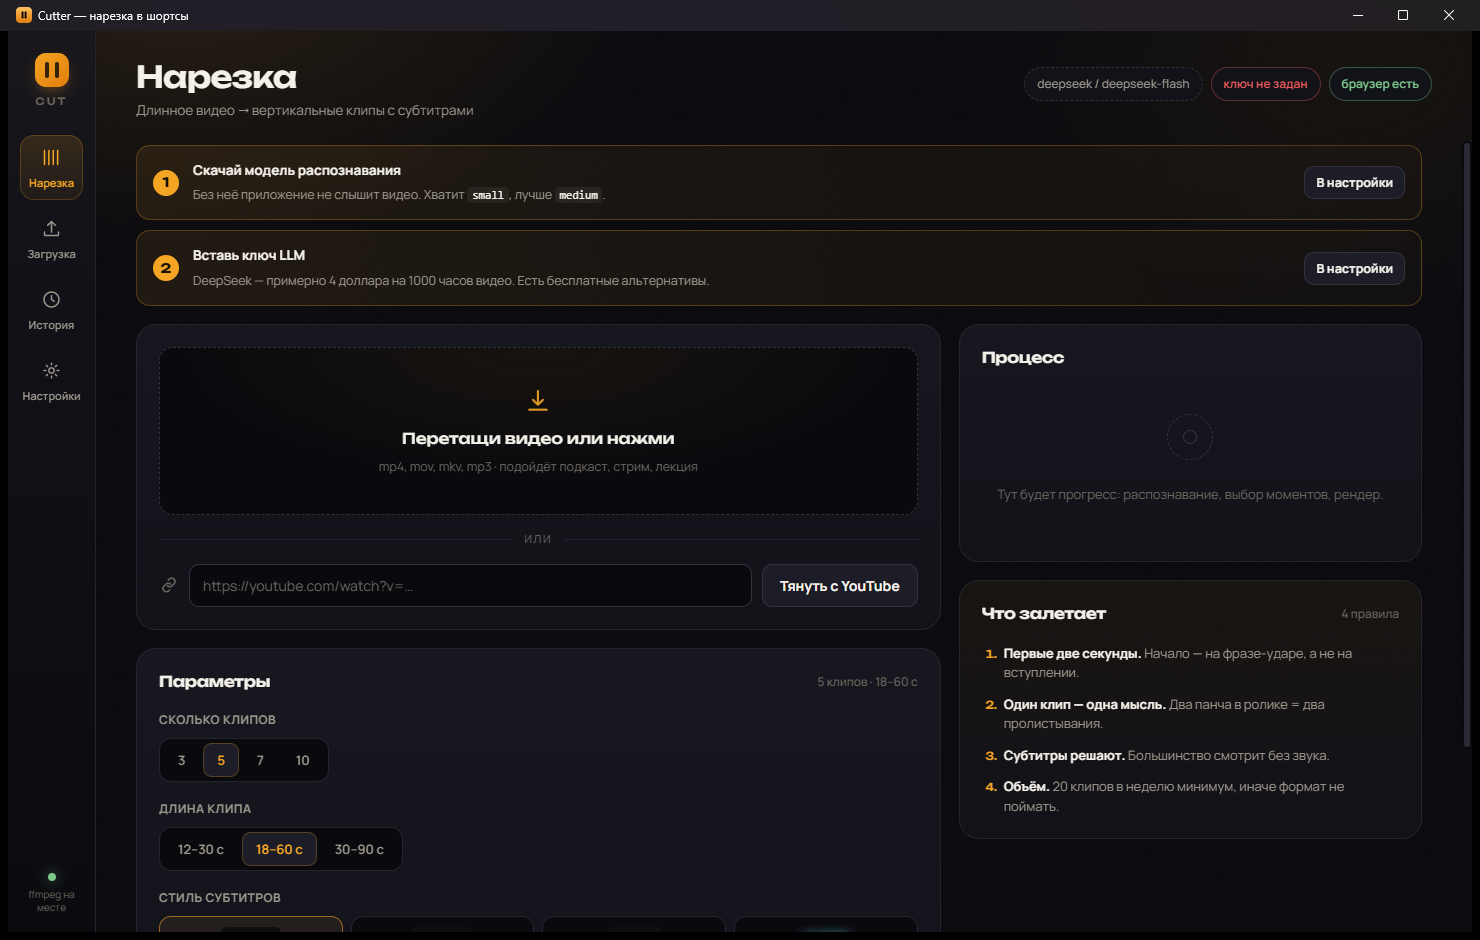
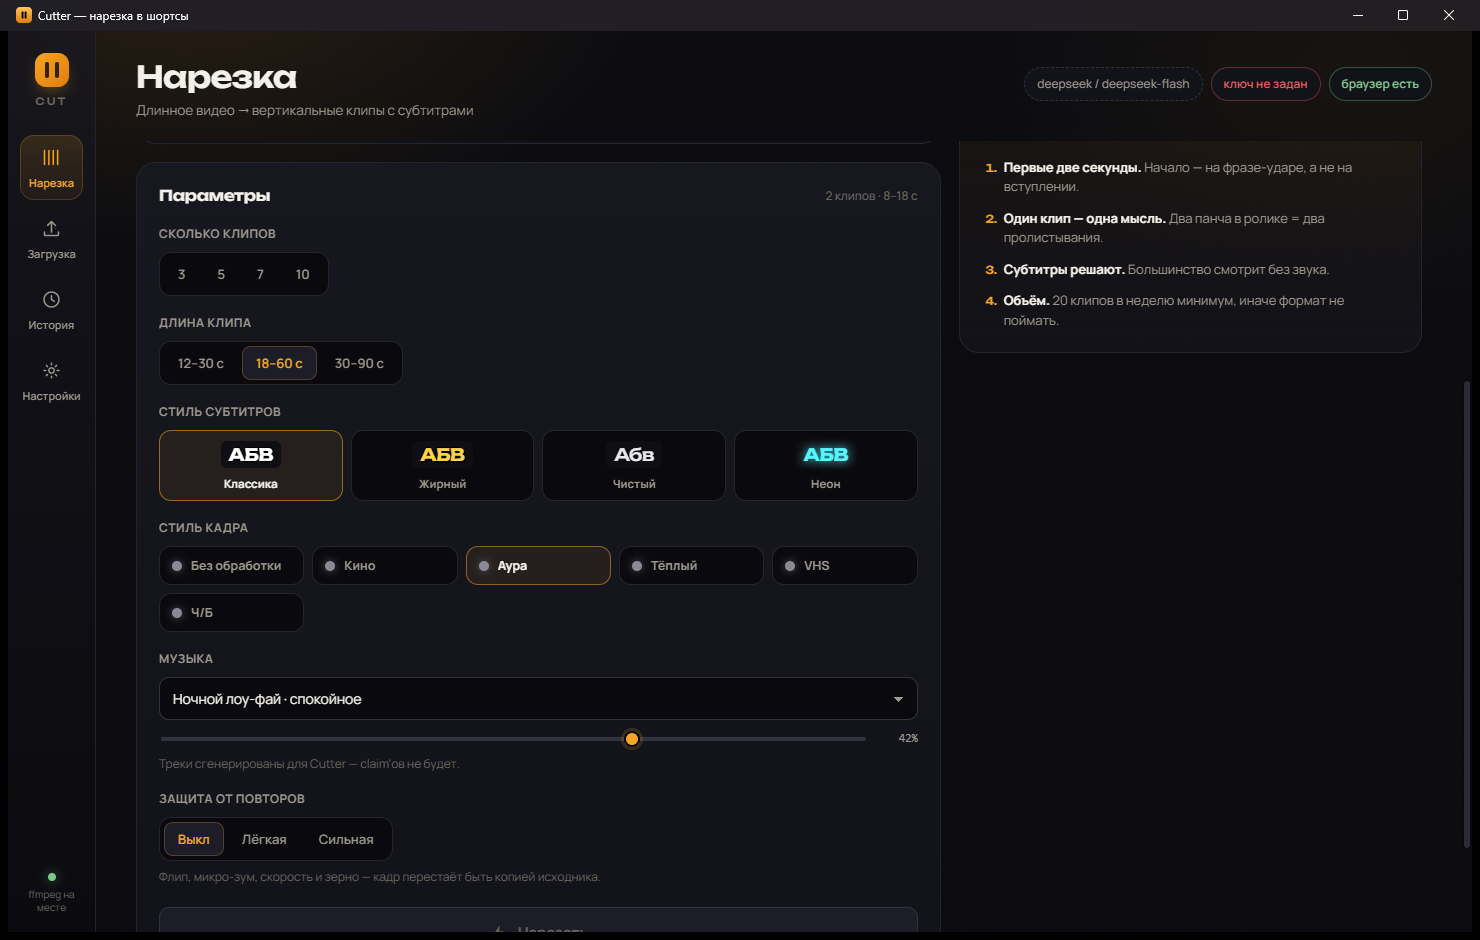
README: ссылка на репозиторий

diff --git a/README.md b/README.md
@@ -63,7 +63,7 @@
 Нужны **Python 3.11+** и **ffmpeg** в `PATH` (проверка: `ffmpeg -version`).
 
 ```bat
-git clone https://github.com/YOUR-NAME/cutter.git
+git clone https://github.com/hvhboynixware-ui/cutter.git
 cd cutter
 run.bat
 ```
